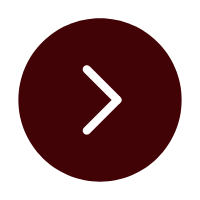
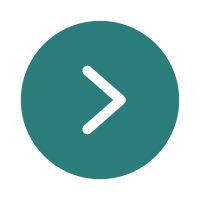
修改4.30

diff --git a/src/pages/article/detail/index.js b/src/pages/article/detail/index.js
@@ -77,20 +77,33 @@ export default class Index extends Component {
             <View className='subtitle'>{articledetail.subtitle}</View>
             <View className='text'>{articledetail.text}</View>
           </View>
-          <Navigator url={url} className='footer'>
-            <View className='foot'>
+          <View  className='footer'>
+            <Navigator url={url} className='foot'>
               <View className='message'><Image src={message} mode='widthFix'></Image></View>
               <View className='commit'>评论</View>
-            </View>
-          </Navigator>
+            </Navigator>
+          </View>
           <View className='co'>
             {
               commitlist && commitlist.length ?
                 commitlist.map(item => {
+                  const url1 = `../commit/index?id=${this.id}&&tonickName=${item.nickName}`
+                  var time = new Date(item.createdAt);
+                  var mm=this.appendZero(time.getMonth()+1);
+                  var dd=this.appendZero(time.getDate());
+                  var hh=this.appendZero(time.getHours());
+                  var ff=this.appendZero(time.getMinutes());
+                  var ss=this.appendZero(time.getSeconds());
+                  var comDate =`${mm}月${dd}日 ${hh}:${ff}:${ss}`
                   return (
-                    <View className='com' key={item.id}>
-                      {item.nickName}：{item.text}
-                    </View>
+                    <Navigator url={url1} className='com' key={item.id}>
+                      {
+                        item.tonickName == null?
+                      <View><View style='display:inline-block'><View style='color:#21a8a5;display:inline-block'>{item.nickName}</View>:{item.text}</View><View style='display:inline-block;float:right;'>{comDate}</View></View>
+                        :
+                      <View><View style='color:#21a8a5;display:inline-block'>{item.nickName}</View>回复<View style='color:#21a8a5;display:inline-block'>{item.tonickName}</View>:{item.text}<View style='display:inline-block;float:right'>{comDate}</View></View>
+                      }
+                    </Navigator>
                   )
                 })
                 :

diff --git a/src/pages/article/index.scss b/src/pages/article/index.scss
@@ -1,9 +1,9 @@
 .warp{ width:96%; margin: 0 auto;}
 .warp .none {text-align: center;color: #999999;margin-top: 50px;font-size: 26px;}
-.warp .item{display: flex; align-items: center;padding: 20px 0;}
+.warp .item{display: flex; align-items: center;padding: 20px 0;border:1px solid #2b7d7b;margin-bottom: 10px;border-radius: 15px;}
 // .warp .item .image{width:150px;height: 150px;border-radius: 20px;overflow: hidden;}
 // .warp .item .image Image{width:100%;height: 100%;}
-.warp .item .content{margin-left: 20px;}
-.warp .item .content .title{ font-size: 32px;overflow: hidden;}
-.warp .item .content .name{font-size: 26px;margin-top: 10px;}
-.warp .item .content .createtime{font-size: 26px;color:#999;margin-top: 10px;overflow: hidden;}
+.warp .item .content{margin-left: 20px;width: 100%;}
+.warp .item .content .title{width: 100%; font-size: 40px; color:#2b7d7b;overflow: hidden; text-overflow:ellipsis;white-space:nowrap;}
+.warp .item .content .name{width: 100%;font-size: 34px;margin-top: 10px;overflow: hidden; text-overflow:ellipsis;white-space:nowrap;}
+.warp .item .content .createtime{width: 100%;font-size: 30px;color:#999;margin-top: 10px;overflow: hidden; text-overflow:ellipsis;white-space:nowrap;}

diff --git a/src/pages/user/myarticle/index.scss b/src/pages/user/myarticle/index.scss
@@ -1,9 +1,9 @@
 .warp{ width:96%; margin: 0 auto;}
 .warp .none {text-align: center;color: #999999;margin-top: 50px;font-size: 26px;}
-.warp .item{display: flex; align-items: center;padding: 20px 0;}
+.warp .item{display: flex; align-items: center;padding: 20px 0;border:1px solid #2b7d7b;margin-bottom: 10px;border-radius: 15px;}
 // .warp .item .image{width:150px;height: 150px;border-radius: 20px;overflow: hidden;}
 // .warp .item .image Image{width:100%;height: 100%;}
-.warp .item .content{margin-left: 20px;}
-.warp .item .content .title{ font-size: 32px;overflow: hidden;}
-.warp .item .content .name{font-size: 26px;margin-top: 10px;}
-.warp .item .content .createtime{font-size: 26px;color:#999;margin-top: 10px;overflow: hidden;}
+.warp .item .content{margin-left: 20px;width: 100%;}
+.warp .item .content .title{width: 100%; font-size: 40px;color:#2b7d7b;overflow: hidden; text-overflow:ellipsis;white-space:nowrap;}
+.warp .item .content .name{width: 100%;font-size: 34px;margin-top: 10px;overflow: hidden; text-overflow:ellipsis;white-space:nowrap;}
+.warp .item .content .createtime{width: 100%;font-size: 30px;color:#999;margin-top: 10px;overflow: hidden; text-overflow:ellipsis;white-space:nowrap;}

diff --git a/src/pages/article/detail/index.scss b/src/pages/article/detail/index.scss
@@ -7,13 +7,13 @@
 // .warp .banner{width: 100%;}
 // .warp .banner Image{width: 100%;}
 .warp .subtitle{margin-top: 20px;font-size: 30px;text-align: center;}
-.warp .title{font-size: 40px;text-align: center;margin: 15px 0;font-weight: bold;}
+.warp .title{font-size: 40px;text-align: center;margin: 15px 0;font-weight: bold;color:#2b7d7b;}
 .warp .text{font-size: 30px;width: 94%;margin: 40px auto;text-indent: 2em;}
 .warp .footer{overflow: hidden;}
 .warp .footer .foot{display: flex;align-items: center;float: right;margin-right: 20px;}
 .warp .footer .foot .message{width: 40px;height: 40px;}
 .warp .footer .foot .message Image{width: 100%;}
-.warp .footer .foot .commit{margin-left: 5px;}
+.warp .footer .foot .commit{margin-left: 10px;}
 .warp .co{background: #efefef;margin: 20px 0 100px 0;padding: 20px 0;border-radius: 20px;overflow: hidden;}
 .warp .co .none{text-align: center;color: #999999;font-size: 26px;}
-.warp .co .com{padding: 5px 10px;color:#666}
+.warp .co .com{padding: 5px 10px;color:#666;font-size: 26px;overflow: hidden;}

diff --git a/src/pages/article/commit/index.js b/src/pages/article/commit/index.js
@@ -11,6 +11,7 @@ export default class Index extends Component {
 
   componentWillMount() {
     this.id = this.$router.params.id;
+    this.tonickName = this.$router.params.tonickName;
     this.nickName = Taro.getStorageSync('user').nickName;
   }
 
@@ -40,7 +41,7 @@ export default class Index extends Component {
       content: '确认提交评论？',
     }).then(dat => {
       if (dat.confirm) {
-        Taro.request({ url: `${Taro.requestUrl}setCommit`, method: 'POST', data: { text: this.state.text, parent_id: this.id,nickName:this.nickName } }).then(res => {
+        Taro.request({ url: `${Taro.requestUrl}setCommit`, method: 'POST', data: { text: this.state.text, parent_id: this.id,nickName:this.nickName,tonickName:this.tonickName } }).then(res => {
           if (res.statusCode == 200) {
             Taro.showToast({ title: '评论成功' })
             Taro.navigateBack({

diff --git a/src/pages/video/index.scss b/src/pages/video/index.scss
@@ -6,14 +6,14 @@ page{
         .at-tabs{
             width: 180px;
             .at-tabs__item{
-                overflow: hidden;white-space: nowrap;text-overflow:ellipsis;
+                overflow: hidden;white-space: nowrap;text-overflow:ellipsis;font-size: 32px;
             }
         }
         .at-tabs__item--active {
-            color: #36ab60;
+            color: #2b7d7b;
             }
         .at-tabs__item-underline {
-            background-color: #36ab60;
+            background-color: #2b7d7b;
             }
             .ban_item{
                 Video{

diff --git a/src/pages/newsdetail/index.scss b/src/pages/newsdetail/index.scss
@@ -6,5 +6,5 @@
 .warp .banner Image{width: 100%;}
 .warp .subtitle{margin-top: 20px;font-size: 30px;text-align: center;}
 .warp .createdAt{margin-top: 20px;font-size: 24px;text-align: center;}
-.warp .title{font-size: 40px;text-align: center;margin: 15px 0;font-weight: bold;}
-.warp .text{font-size: 30px;width: 94%;margin: 20px auto;text-indent: 2em;}
+.warp .title{font-size: 40px;text-align: center;margin: 15px 0;font-weight: bold;color:#2b7d7b;}
+.warp .text{font-size: 30px;width: 94%;margin: 20px auto;text-indent: 2em;font-size: 44px;line-height: 75px;}

diff --git a/src/pages/season/index.scss b/src/pages/season/index.scss
@@ -1,6 +1,6 @@
 .warp{width: 96%;margin: 0 auto;padding-bottom: 50px;}
 .warp .banner{width: 100%;}
 .warp .banner Image{width: 100%;}
-.warp .title{text-align: center;font-size: 40px;margin-top: 30px;}
+.warp .title{text-align: center;font-size: 40px;margin-top: 30px;color:#2b7d7b;font-weight: bold;}
 .warp .subtitle{margin-top: 20px;font-size: 36px;}
-.warp .text{margin-top: 10px;text-indent: 2em;}
+.warp .text{margin-top: 10px;text-indent: 2em;line-height: 75px;}

diff --git a/src/pages/medicine/detail/index.scss b/src/pages/medicine/detail/index.scss
@@ -4,5 +4,5 @@
 }
 .warp .banner{width: 100%;}
 .warp .banner Image{width: 100%;}
-.warp .title{font-size: 40px;text-align: center;margin: 15px 0;font-weight: bold;}
-.warp .text{font-size: 30px;width: 94%;margin: 40px auto;text-indent: 2em;}
+.warp .title{font-size: 40px;text-align: center;margin: 15px 0;font-weight: bold;color:#2b7d7b;}
+.warp .text{font-size: 44px;width: 94%;margin: 40px auto;text-indent: 2em;line-height: 75px;}

diff --git a/src/pages/user/index.scss b/src/pages/user/index.scss
@@ -1,5 +1,5 @@
 .warp{ width:96%; margin: 0 auto;}
-.warp .head{display: flex;align-items: center; background: #594547;border-radius: 20px;}
+.warp .head{display: flex;align-items: center; background: #2b7d7b;border-radius: 20px;}
 .warp .head .avatar{width: 150px; height: 150px; border-radius: 50%; overflow: hidden;padding: 20px;}
 .warp .head .avatar Image{width: 100%;}
 .warp .head .info{margin-left: 20px;color:#fff}

diff --git a/src/pages/medicine/index.scss b/src/pages/medicine/index.scss
@@ -1,5 +1,6 @@
 .warp{width: 96%;margin: 0 auto; display: flex;flex-wrap: wrap;}
 .warp .item{ width: 33.3333%;margin-top: 10px;}
-.warp .item .title{ text-align: center;margin-top: 10px;}
+.warp .item .title{ text-align: center;margin-top: 10px;color:#2b7d7b;}
 .warp .item .img{width:90%;margin: 0 auto;}
 .warp .item .img Image{ width: 100%;}
+.at-search-bar__action{background-color:#2b7d7b;}

diff --git a/src/pages/index/index.js b/src/pages/index/index.js
@@ -46,7 +46,7 @@ export default class Index extends Component {
             style={`height: ${swiperHeight}px`}
           >
             {
-              bannerlist.map(item => {
+              bannerlist && bannerlist.map(item => {
                 return (
                   <SwiperItem className='swiperitem' key={item.id}>
                     <View className='demo-text-1'>
